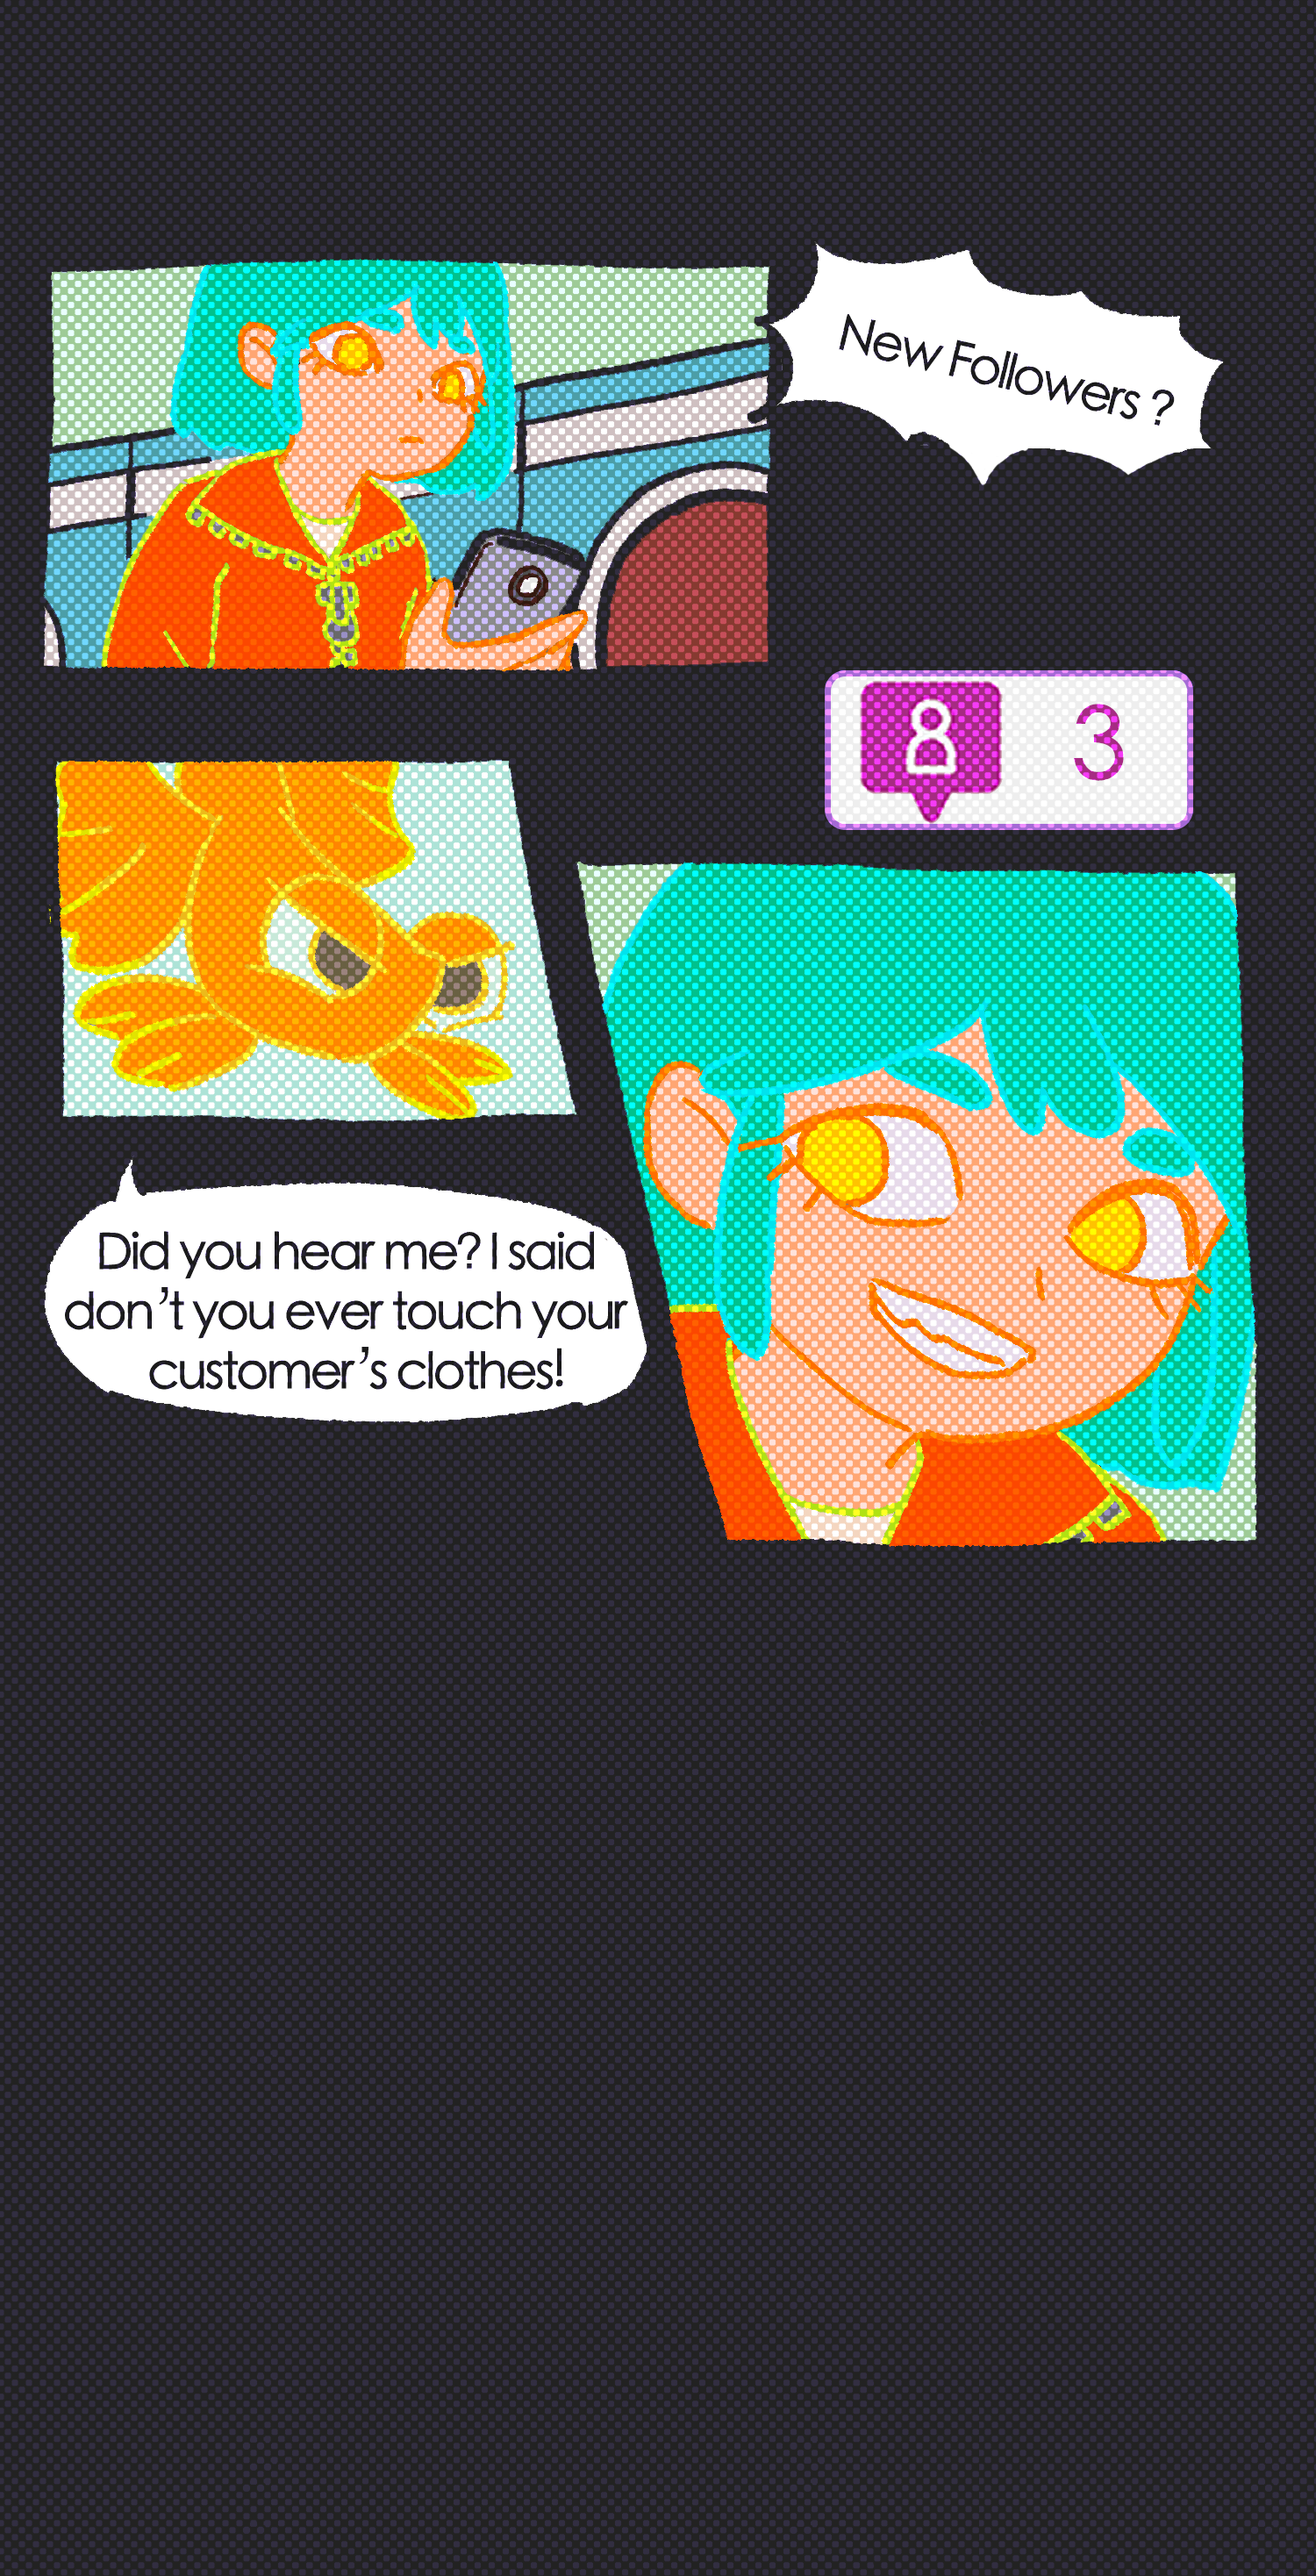
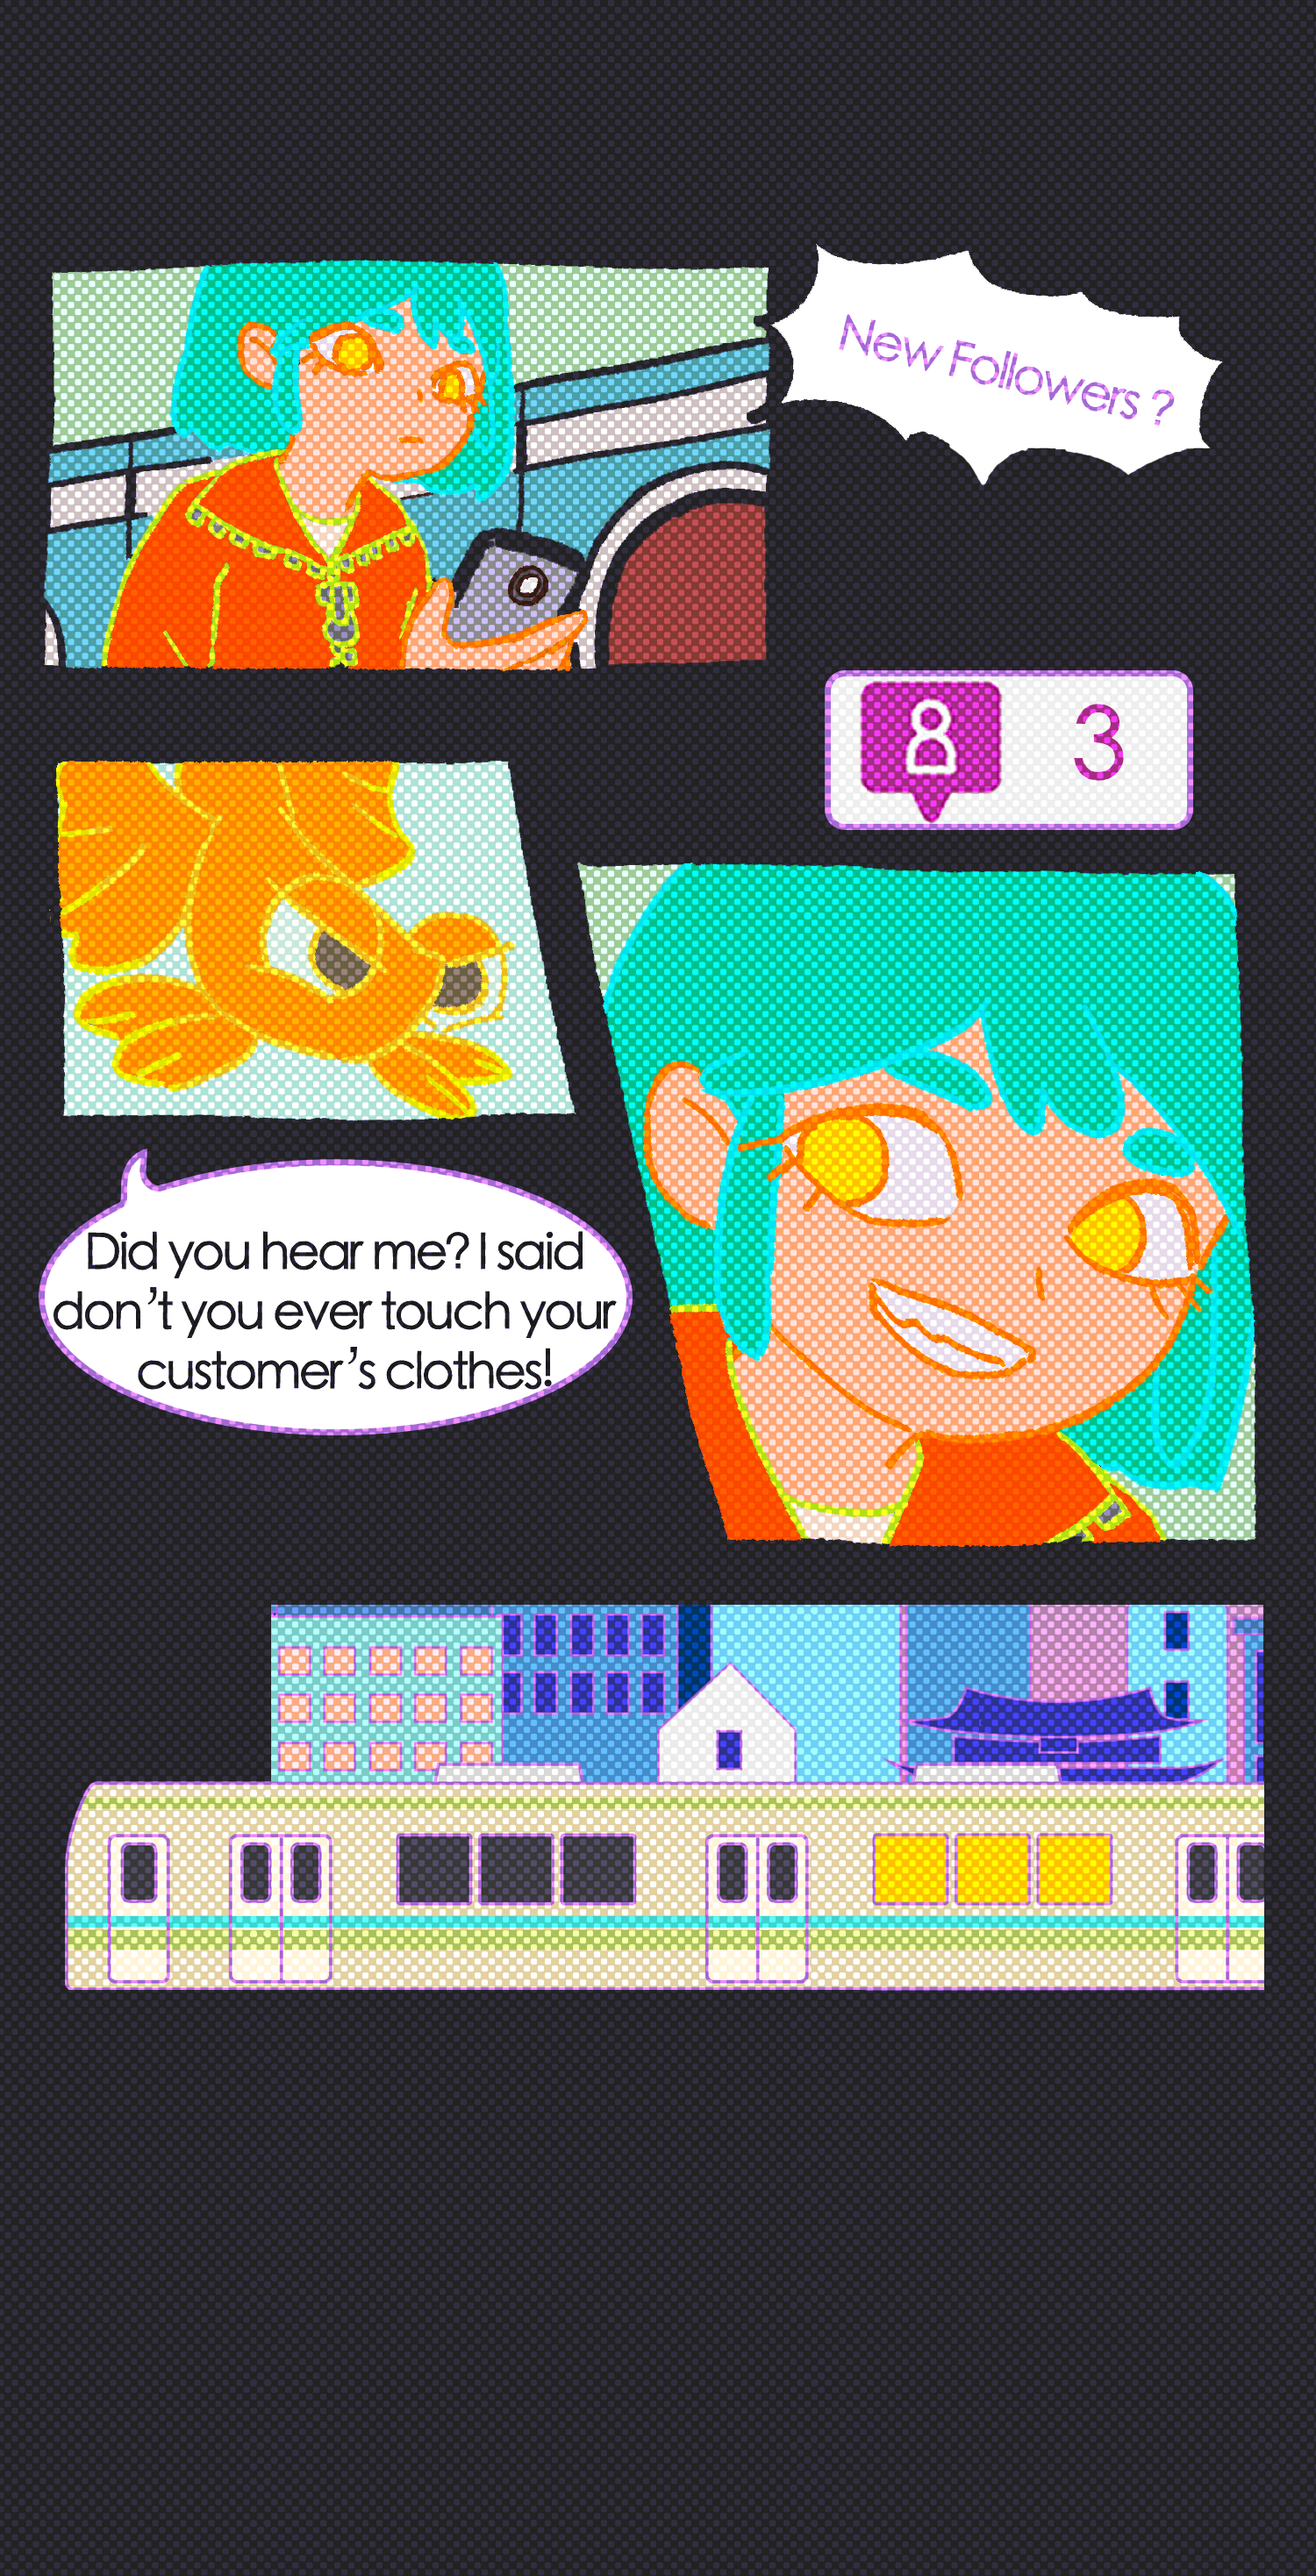
继续替换tutorial图片，修改点击糖果后流程

diff --git a/Assets/Scripts/Tutorial/TutorialManagerNew.cs b/Assets/Scripts/Tutorial/TutorialManagerNew.cs
@@ -50,7 +50,7 @@ public class TutorialManagerNew : MonoBehaviour
 
     [SerializeField]
     private GameObject Exclamation, Posture, Phone, HintUI, ScrollHint, clothBag, machineFull, machineEmpty, phoneAnimation, changePostureButton,
-        machineOccupied, ClothUI, KararaC, KararaB, KararaA, EmojiBubble, InventoryBackButton, Ins, Shutter, Notice, FishTalkButton, inventoryBubble, inventoryFish, sweet;
+        machineOccupied, ClothUI, KararaC, KararaB, KararaA, ClothFish, EmojiBubble, InventoryBackButton, Ins, Shutter, Notice, FishTalkButton, inventoryBubble, inventoryFish, sweet;
 
     public GameObject Hint2D, HintScreen;
     [SerializeField]
@@ -1542,6 +1542,8 @@ public class TutorialManagerNew : MonoBehaviour
     public void ShowComic()
     {
         Show(Comic);
+        Hide(mobile);
+        Hide(followerNum);
     }
 
     public void Hide(CanvasGroup UIGroup)
@@ -1595,6 +1597,7 @@ public class TutorialManagerNew : MonoBehaviour
     public void ClickSweet()
     {
         sweet.SetActive(false);
+        ClothFish.SetActive(true);
         isWearingClothNum ++;
         StartCoroutine(KararaEatSweet());
     }
